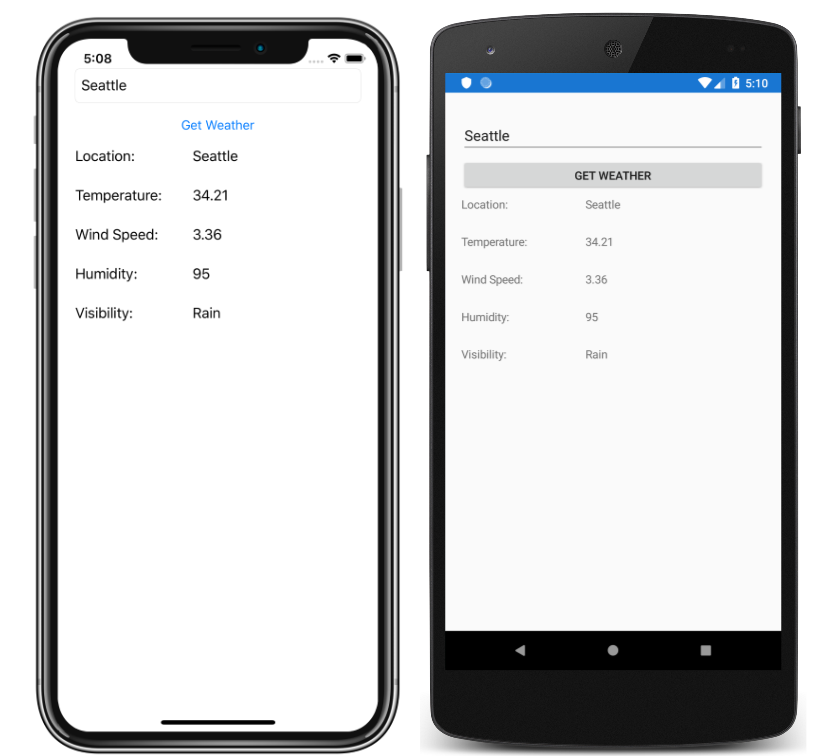
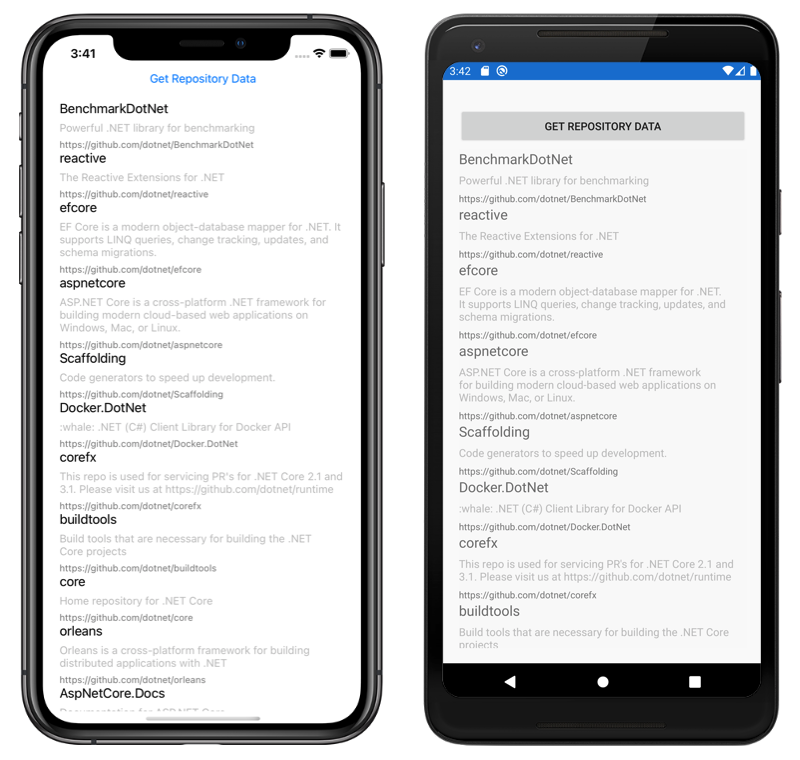
Get started: web service tutorial update (#690)
* Update sample to query GitHub.

* Rename method.

diff --git a/GetStarted/Tutorials/WebServiceTutorial/WebServiceTutorial/MainPage.xaml b/GetStarted/Tutorials/WebServiceTutorial/WebServiceTutorial/MainPage.xaml
@@ -2,57 +2,24 @@
 <ContentPage xmlns="http://xamarin.com/schemas/2014/forms"
              xmlns:x="http://schemas.microsoft.com/winfx/2009/xaml"
              x:Class="WebServiceTutorial.MainPage">
-    <Grid Margin="20,35,20,20">
-        <Grid.ColumnDefinitions>
-            <ColumnDefinition Width="0.4*" />
-            <ColumnDefinition Width="0.6*" />
-        </Grid.ColumnDefinitions>
-        <Grid.RowDefinitions>
-            <RowDefinition Height="40" />
-            <RowDefinition Height="40" />
-            <RowDefinition Height="40" />
-            <RowDefinition Height="40" />
-            <RowDefinition Height="40" />
-            <RowDefinition Height="40" />
-            <RowDefinition Height="40" />
-        </Grid.RowDefinitions>
-
-        <Entry x:Name="cityEntry"
-               Grid.ColumnSpan="2"
-               Text="Seattle" />
-        <Button Grid.ColumnSpan="2"
-                Grid.Row="1"
-                Text="Get Weather"
+    <StackLayout Margin="20,35,20,20">
+        <Button Text="Get Repository Data"
                 Clicked="OnButtonClicked" />
-            
-        <Label Grid.Row="2" 
-               Text="Location:" />
-        <Label Grid.Row="2"
-               Grid.Column="1"
-               Text="{Binding Title}" />
-        
-        <Label Grid.Row="3"
-               Text="Temperature:" />
-        <Label Grid.Row="3"
-               Grid.Column="1"
-               Text="{Binding Main.Temperature}" />
-        
-        <Label Grid.Row="4"
-               Text="Wind Speed:" />
-        <Label Grid.Row="4"
-               Grid.Column="1"
-               Text="{Binding Wind.Speed}" />
-        
-        <Label Grid.Row="5"
-               Text="Humidity:" />
-        <Label Grid.Row="5"
-               Grid.Column="1"
-               Text="{Binding Main.Humidity}" />
-        
-        <Label Grid.Row="6"
-               Text="Visibility:" />
-        <Label Grid.Row="6"
-               Grid.Column="1"
-               Text="{Binding Weather[0].Visibility}" />
-    </Grid>
+        <CollectionView x:Name="collectionView">
+            <CollectionView.ItemTemplate>
+                <DataTemplate>
+                    <StackLayout>
+                        <Label Text="{Binding Name}"
+                               FontSize="Medium" />
+                        <Label Text="{Binding Description}"
+                               TextColor="Silver"
+                               FontSize="Small" />
+                        <Label Text="{Binding GitHubHomeUrl}"
+                               TextColor="Gray"
+                               FontSize="Caption" />
+                    </StackLayout>
+                </DataTemplate>
+            </CollectionView.ItemTemplate>
+        </CollectionView>
+    </StackLayout>
 </ContentPage>

diff --git a/GetStarted/Tutorials/WebServiceTutorial/WebServiceTutorial/RestService.cs b/GetStarted/Tutorials/WebServiceTutorial/WebServiceTutorial/RestService.cs
@@ -1,4 +1,5 @@
 using System;
+using System.Collections.Generic;
 using System.Diagnostics;
 using System.Net.Http;
 using System.Threading.Tasks;
@@ -15,16 +16,16 @@ namespace WebServiceTutorial
             _client = new HttpClient();
         }
 
-        public async Task<WeatherData> GetWeatherDataAsync(string uri)
+        public async Task<List<Repository>> GetRepositoriesAsync(string uri)
         {
-            WeatherData weatherData = null;
+            List<Repository> repositories = null;
             try
             {
                 HttpResponseMessage response = await _client.GetAsync(uri);
                 if (response.IsSuccessStatusCode)
                 {
                     string content = await response.Content.ReadAsStringAsync();
-                    weatherData = JsonConvert.DeserializeObject<WeatherData>(content);
+                    repositories = JsonConvert.DeserializeObject<List<Repository>>(content);
                 }
             }
             catch (Exception ex)
@@ -32,7 +33,7 @@ namespace WebServiceTutorial
                 Debug.WriteLine("\tERROR {0}", ex.Message);
             }
 
-            return weatherData;
+            return repositories;
         }
     }
 }

diff --git a/GetStarted/Tutorials/WebServiceTutorial/WebServiceTutorial/MainPage.xaml.cs b/GetStarted/Tutorials/WebServiceTutorial/WebServiceTutorial/MainPage.xaml.cs
@@ -1,4 +1,5 @@
 using System;
+using System.Collections.Generic;
 using Xamarin.Forms;
 
 namespace WebServiceTutorial
@@ -15,20 +16,8 @@ namespace WebServiceTutorial
 
         async void OnButtonClicked(object sender, EventArgs e)
         {
-            if (!string.IsNullOrWhiteSpace(cityEntry.Text))
-            {
-                WeatherData weatherData = await _restService.GetWeatherDataAsync(GenerateRequestUri(Constants.OpenWeatherMapEndpoint));
-                BindingContext = weatherData;
-            }
-        }
-
-        string GenerateRequestUri(string endpoint)
-        {
-            string requestUri = endpoint;
-            requestUri += $"?q={cityEntry.Text}";
-            requestUri += "&units=imperial"; // or units=metric
-            requestUri += $"&APPID={Constants.OpenWeatherMapAPIKey}";
-            return requestUri;
+            List<Repository> repositories = await _restService.GetRepositoriesAsync(Constants.GitHubReposEndpoint);
+            collectionView.ItemsSource = repositories;
         }
     }
 }

diff --git a/GetStarted/Tutorials/WebServiceTutorial/WebServiceTutorial/Repository.cs b/GetStarted/Tutorials/WebServiceTutorial/WebServiceTutorial/Repository.cs
@@ -1,0 +1,23 @@
+using System;
+using Newtonsoft.Json;
+
+namespace WebServiceTutorial
+{
+    public class Repository
+    {
+        [JsonProperty("name")]
+        public string Name { get; set; }
+
+        [JsonProperty("description")]
+        public string Description { get; set; }
+
+        [JsonProperty("html_url")]
+        public Uri GitHubHomeUrl { get; set; }
+
+        [JsonProperty("homepage")]
+        public Uri Homepage { get; set; }
+
+        [JsonProperty("watchers")]
+        public int Watchers { get; set; }
+    }
+}

diff --git a/GetStarted/Tutorials/WebServiceTutorial/WebServiceTutorial/Constants.cs b/GetStarted/Tutorials/WebServiceTutorial/WebServiceTutorial/Constants.cs
@@ -2,7 +2,6 @@
 {
     public static class Constants
     {
-        public const string OpenWeatherMapEndpoint = "https://api.openweathermap.org/data/2.5/weather";
-        public const string OpenWeatherMapAPIKey = "ea0089aac0e8d82ecc246b5528013f29";
+        public const string GitHubReposEndpoint = "https://api.github.com/orgs/dotnet/repos";
     }
 }
